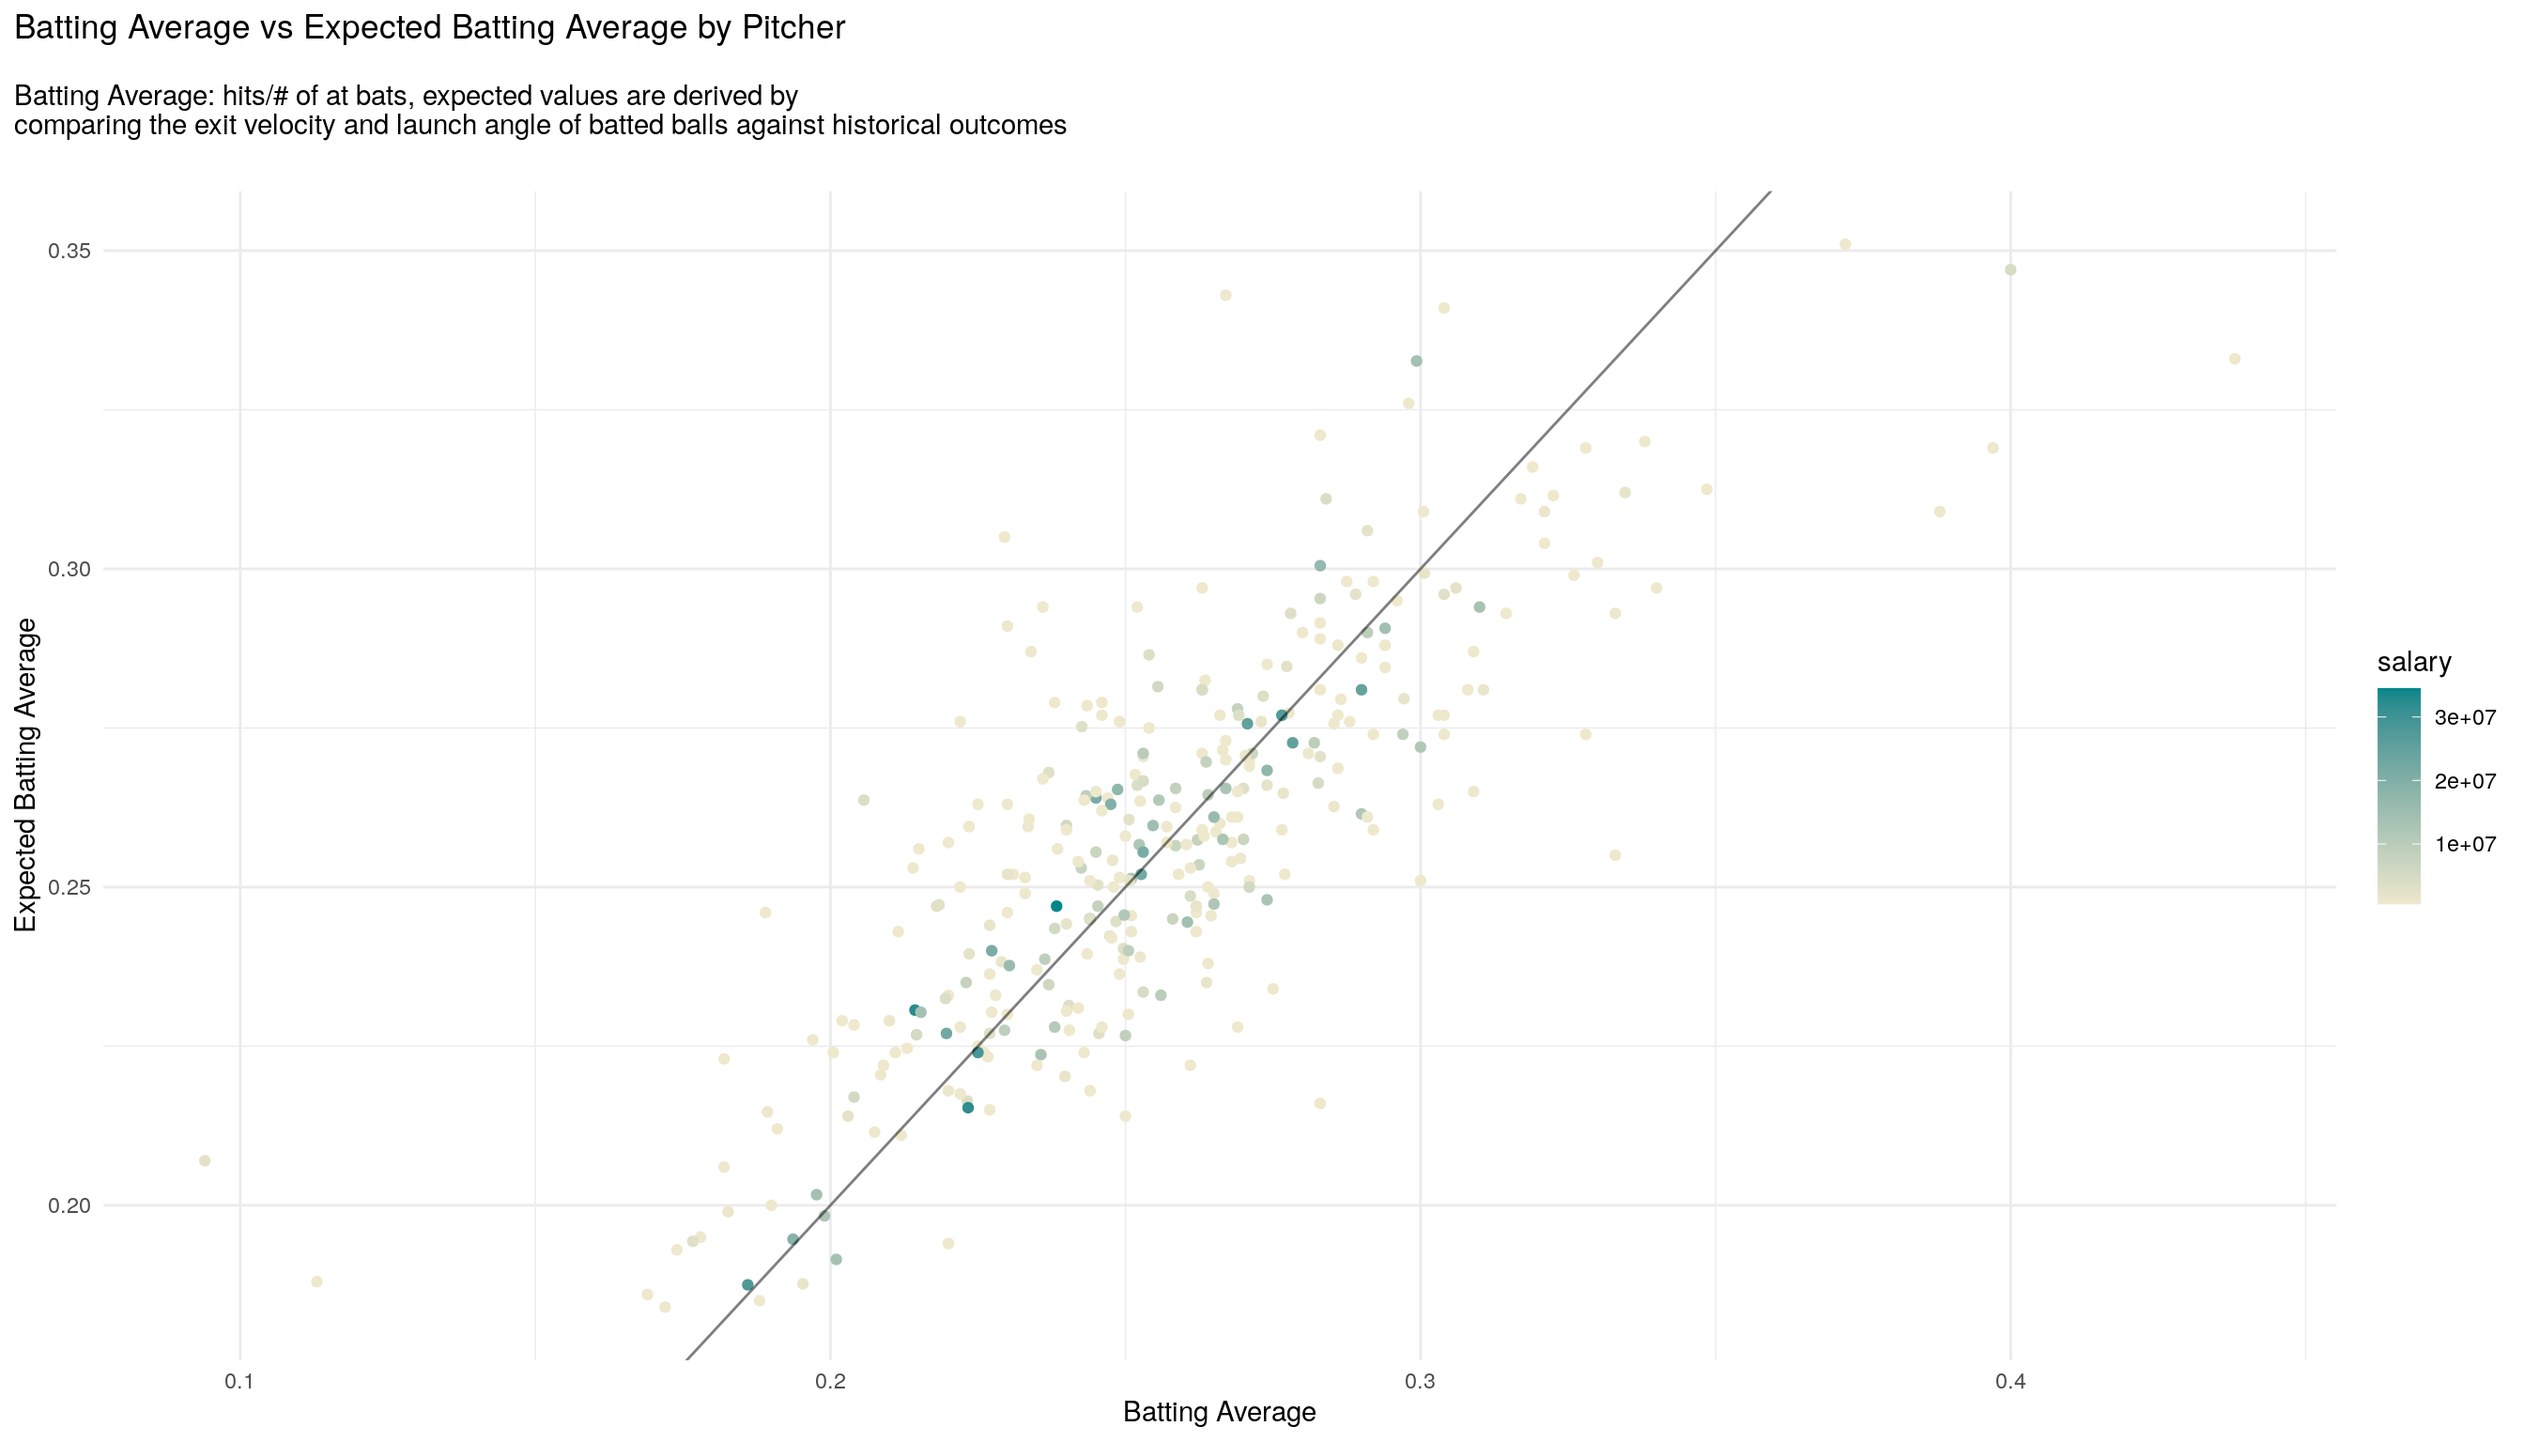
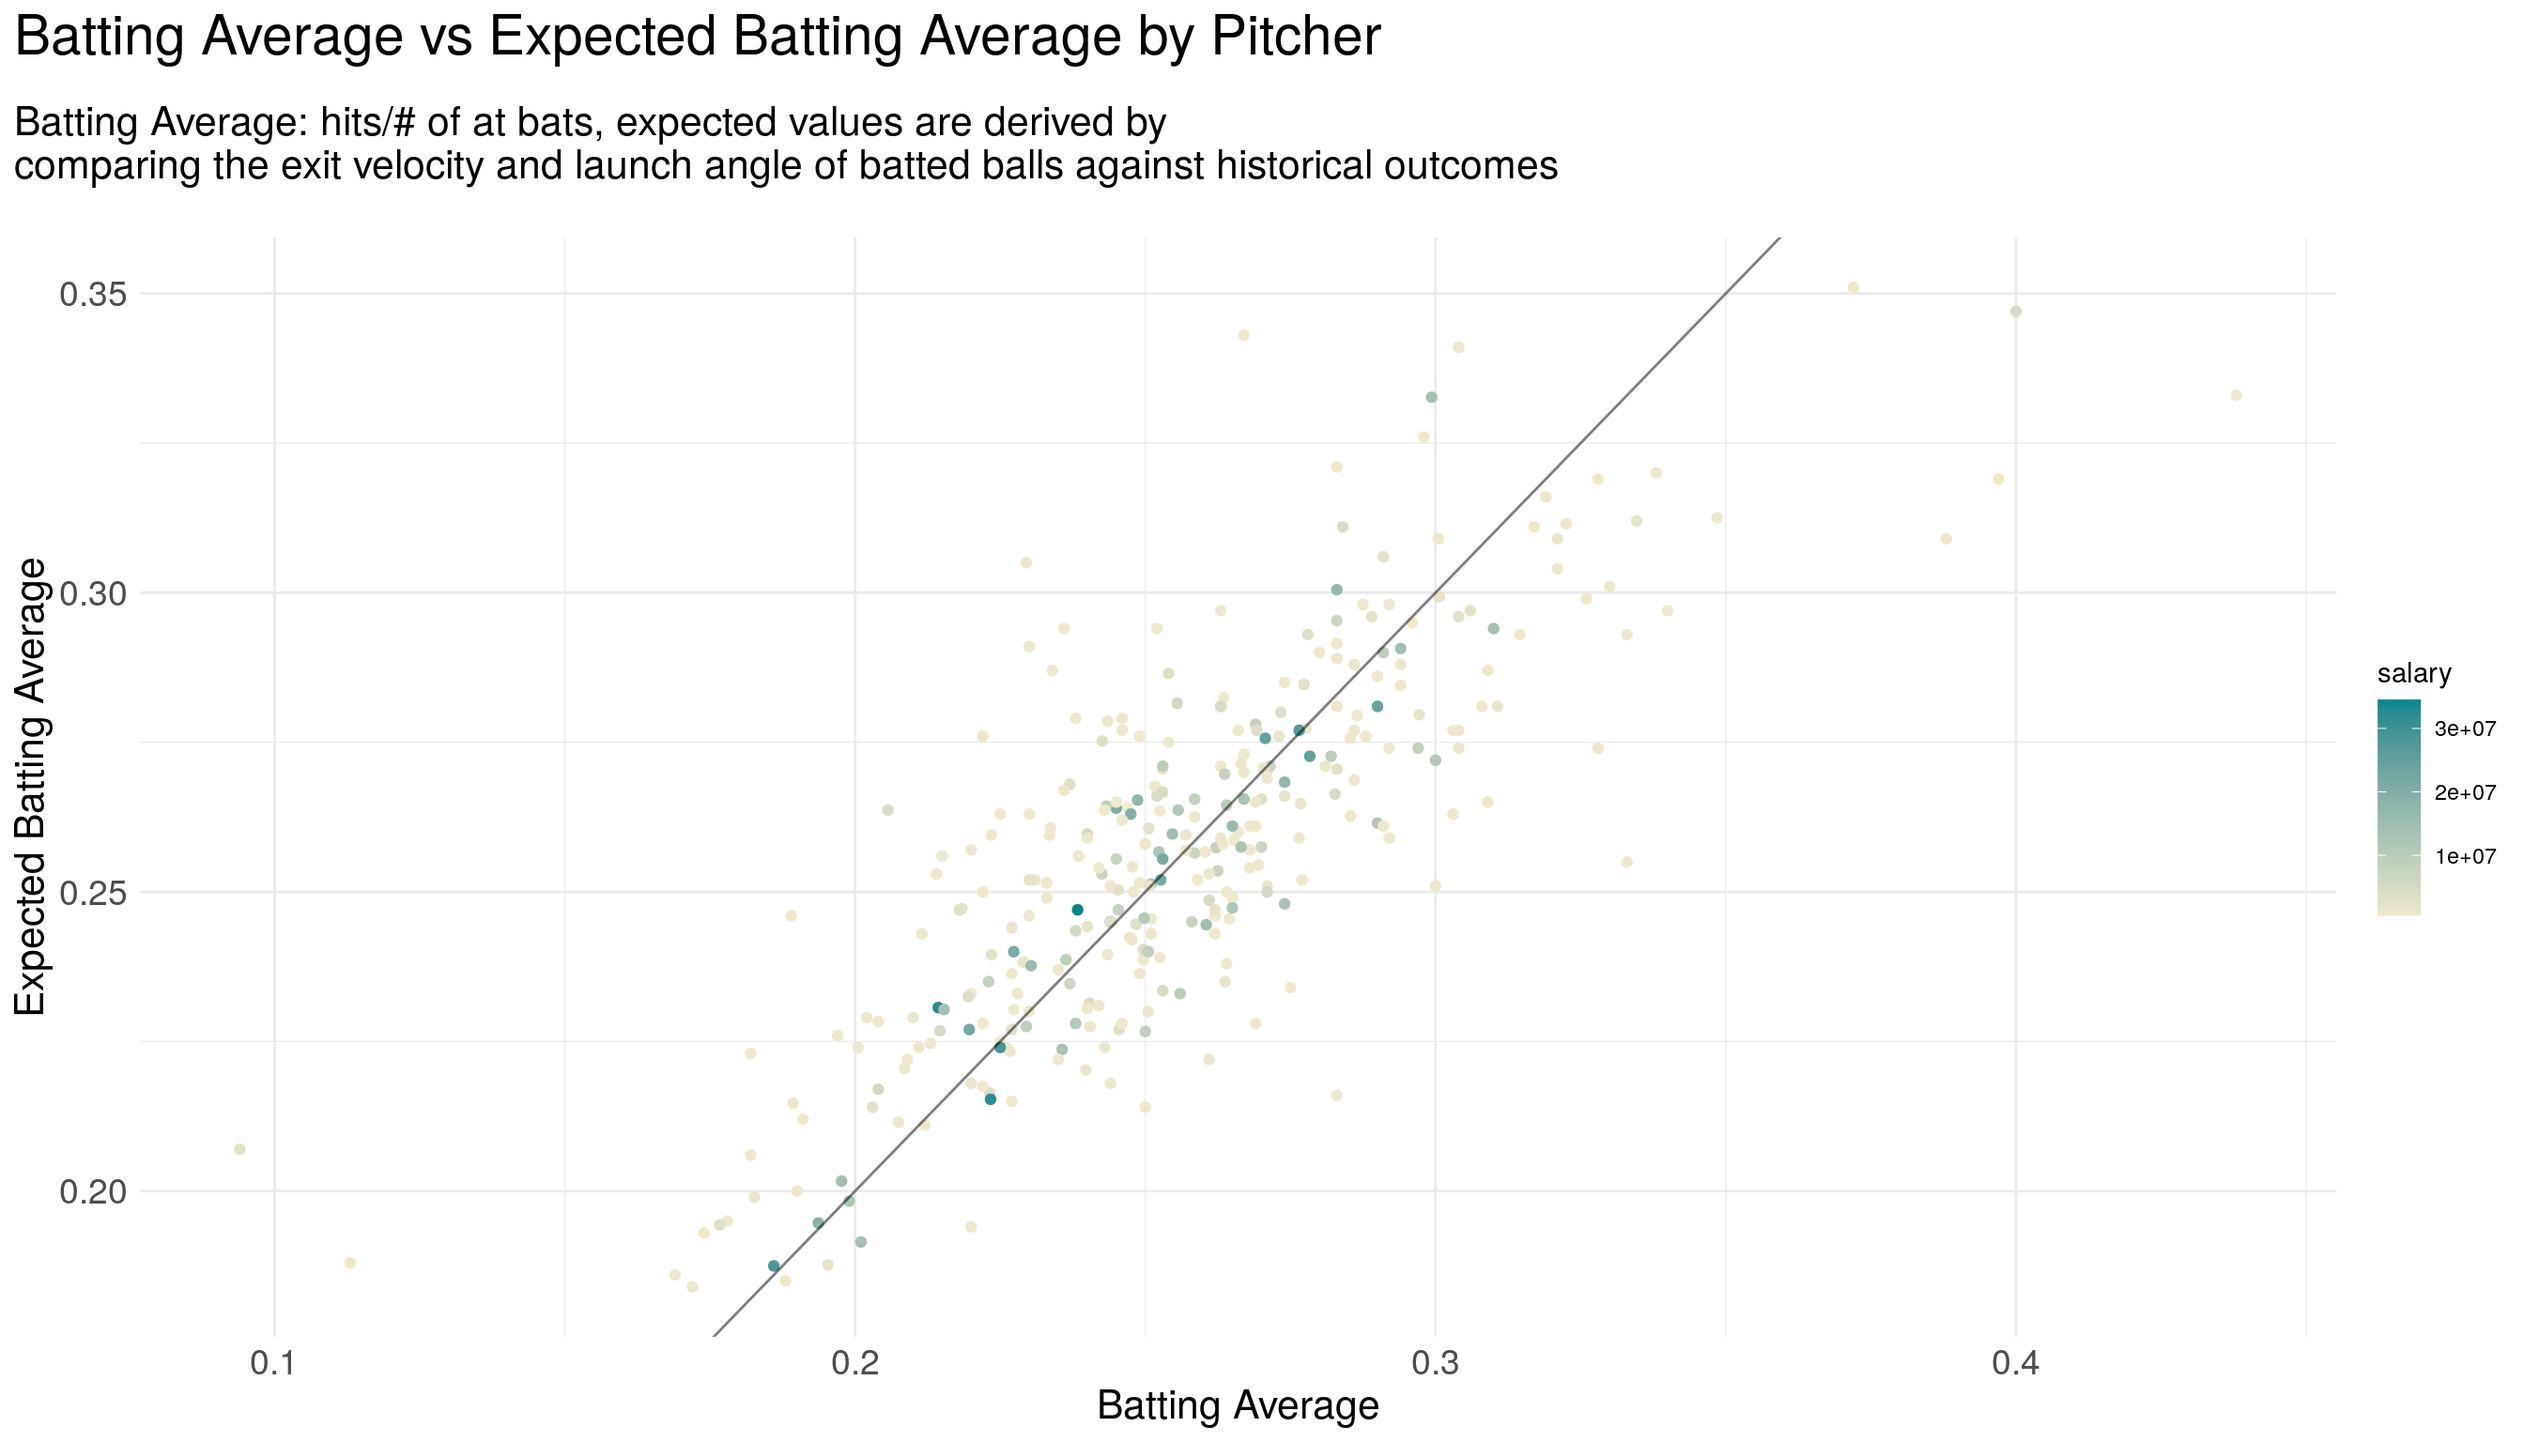
text size

diff --git a/README.md b/README.md
@@ -12,7 +12,7 @@ pitching statistics and salary data for individual pitchers. This
 dataset contains data from the 2018, 2019, and 2020 seasons.
 
 One exciting feature of the package is the inclusion of expected
-statistics\!
+statistics:
 
 <img src="man/figures/README-pitcher_woba-1-1.png" width="75%" style="display: block; margin: auto;" />
 
